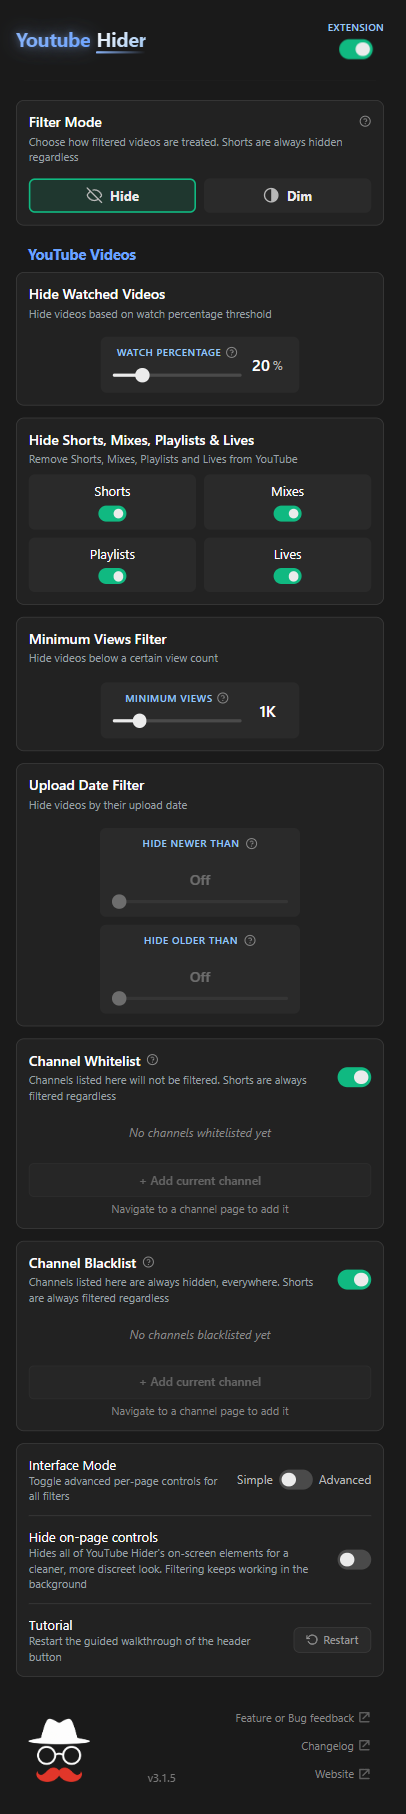
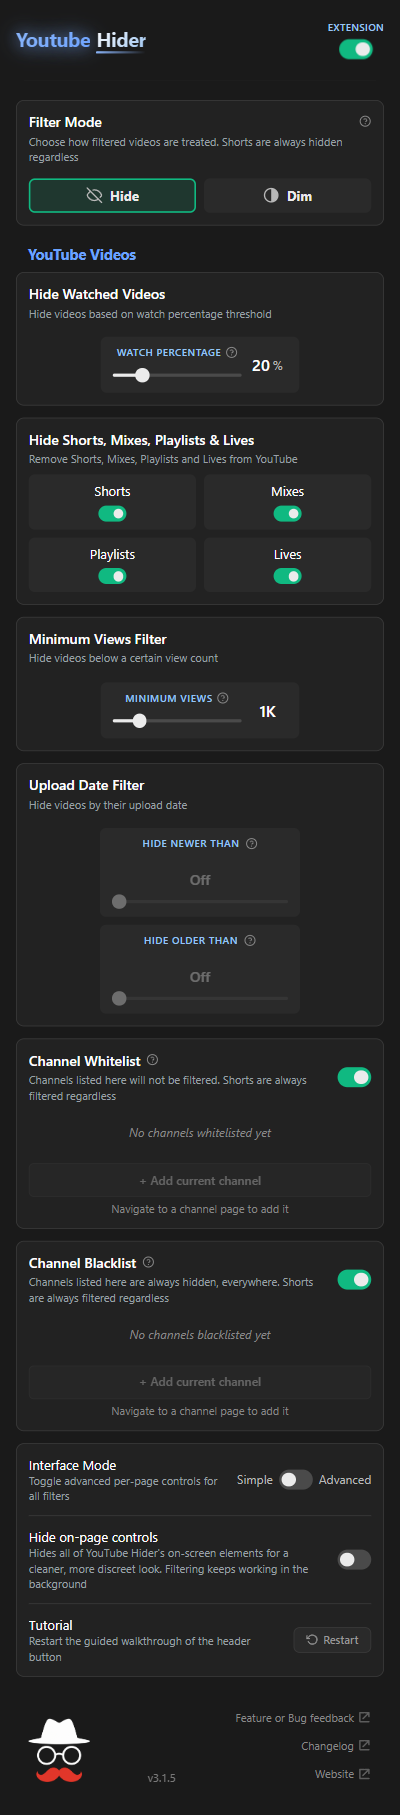
feat: update screenshot generation to use locator for improved accuracy; remove fullPage option

diff --git a/tools/generate-popup-screenshots.js b/tools/generate-popup-screenshots.js
@@ -32,9 +32,8 @@ async function main() {
     await page.waitForSelector('.setting-card');
     await page.waitForTimeout(300);
 
-    await page.screenshot({
+    await page.locator('body').screenshot({
       path: path.join(OUTPUT_DIR, 'full-easy.png'),
-      fullPage: true,
     });
 
     await page.evaluate(() => {
@@ -42,9 +41,8 @@ async function main() {
     });
     await page.waitForTimeout(300);
 
-    await page.screenshot({
+    await page.locator('body').screenshot({
       path: path.join(OUTPUT_DIR, 'full-no-easy.png'),
-      fullPage: true,
     });
 
     console.log(`Screenshots written to ${OUTPUT_DIR}`);